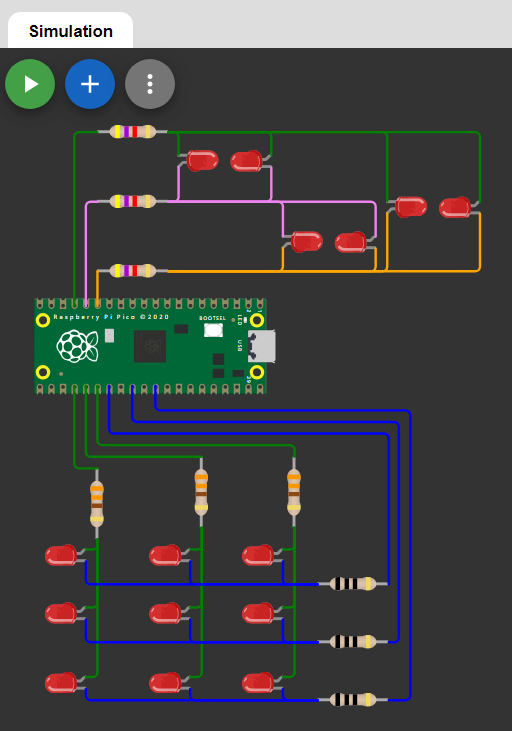
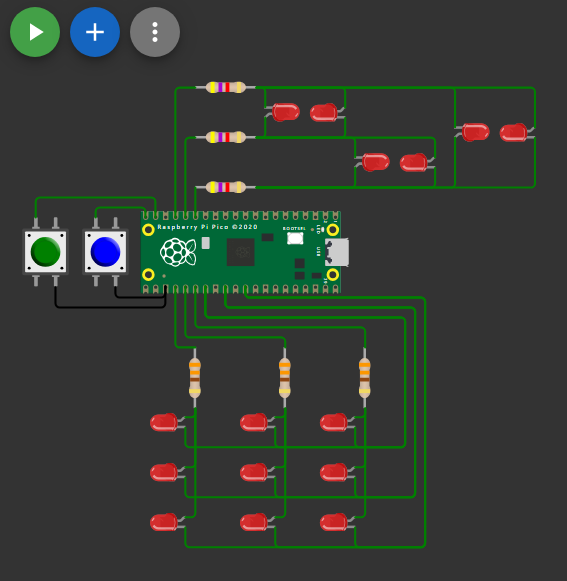
added buttons

diff --git a/led-multiplexing/main.c b/led-multiplexing/main.c
@@ -1,11 +1,15 @@
 /*
 Press the green play button to run the simulation --->
+Try pressing the buttons!
 
-Description:
+Features:
 Charlieplexing LED Circuit (top) 
   - N pins control N*(N-1) LEDs
 Multiplexing LED Circuit (bottom)
   - N+M pins control N*M LEDs
+Push Buttons using interrupts
+  - Left controls which circuit
+  - Right controls which LED pattern
 
 Author: Caite S.
 */
@@ -13,74 +17,124 @@ Author: Caite S.
 #include <stdio.h>
 #include "pico/stdlib.h"
 
-#define LED_A 18
-#define LED_B 19
-#define LED_C 20
-#define GND_A 21
-#define GND_B 22
-#define GND_C 26
-#define LED_D 13
-#define LED_E 12
-#define LED_F 11
-#define BTN_SWITCH 15
-#define BTN_NEXT 14
+#define DEBOUNCE_DELAY_MS 150
+#define BTN_CIRCUIT 14
+#define BTN_PATTERN 15
 #define LEN_multiplex 3
 #define LEN_charlieplex 3
 
+const int column_PINS[LEN_multiplex] = {18, 19, 20};
+const int row_PINS[LEN_multiplex] = {21, 22, 26};
+const int charlieplex_PINS[LEN_charlieplex] = {13, 12, 11};
+
+volatile bool isMultiplexActive = true;
+volatile int patternState = 1;
+volatile uint64_t circuit_btn_time_pressed = 0;
+volatile uint64_t pattern_btn_time_pressed = 0;
+
 void multiplex_put(int LED_num, bool on);
 void charlieplex_put(int LED_num, bool on);
-void multiplexAllOff();
-void charlieplexAllOff();
-void multiplex_loop();
-void charlieplex_loop();
+void handle_button_press(uint /*gpio*/, uint32_t /*event_mask*/);
+void switch_circuit();
+void next_pattern();
+void multiplex_blink_one();
+void multiplex_wave();
+void multiplex_all_on();
+void charlieplex_blink_one();
+void charlieplex_wave();
+void charlieplex_all_on();
+
 
 
 int main() {
   stdio_init_all();
-  gpio_init(LED_A);
-  gpio_init(LED_B);
-  gpio_init(LED_C);
-  gpio_init(GND_A);
-  gpio_init(GND_B);
-  gpio_init(GND_C);
-  gpio_init(LED_D);
-  gpio_init(LED_E);
-  gpio_init(LED_F);
-  gpio_init(BTN_SWITCH);
-  gpio_init(BTN_NEXT);
-  gpio_set_dir(LED_A, GPIO_OUT);
-  gpio_set_dir(LED_B, GPIO_OUT);
-  gpio_set_dir(LED_C, GPIO_OUT);
-  gpio_set_dir(GND_A, GPIO_OUT);
-  gpio_set_dir(GND_B, GPIO_OUT);
-  gpio_set_dir(GND_C, GPIO_OUT);
-  gpio_set_dir(BTN_SWITCH, GPIO_IN);
-  gpio_set_dir(BTN_NEXT, GPIO_IN);
+  // init pins in LED circuits
+  for (int i=0; i<LEN_multiplex; i++) {
+    gpio_init(column_PINS[i]);
+    gpio_set_dir(column_PINS[i], GPIO_OUT);
+    gpio_put(column_PINS[i], 0);
+  }
+  for (int i=0; i<LEN_multiplex; i++) {
+    gpio_init(row_PINS[i]);
+    gpio_set_dir(row_PINS[i], GPIO_OUT);
+    gpio_put(row_PINS[i], 1);
+  }
+  for (int i=0; i<LEN_charlieplex; i++) {
+    gpio_init(charlieplex_PINS[i]);
+    gpio_set_dir(charlieplex_PINS[i], GPIO_OUT);
+    gpio_put(charlieplex_PINS[i], 0);
+  }
 
-  multiplexAllOff();
-  charlieplexAllOff();
+  // push buttons
+  gpio_init(BTN_CIRCUIT);
+  gpio_init(BTN_PATTERN);
+  gpio_set_dir(BTN_CIRCUIT, GPIO_IN);
+  gpio_set_dir(BTN_PATTERN, GPIO_IN);
+  gpio_pull_up(BTN_CIRCUIT);
+  gpio_pull_up(BTN_PATTERN);
 
-  while(true) {
-     multiplex_loop();
-     charlieplex_loop();
+  // interrupt on button press
+  gpio_set_irq_enabled_with_callback(BTN_CIRCUIT, GPIO_IRQ_EDGE_FALL, true, &handle_button_press);
+  gpio_set_irq_enabled_with_callback(BTN_PATTERN, GPIO_IRQ_EDGE_FALL, true, &handle_button_press);
+  
+  void (*multiplex_patterns[3])() = {multiplex_blink_one, multiplex_wave, multiplex_all_on};
+  void (*charlieplex_patterns[3])() = {charlieplex_blink_one, charlieplex_wave, charlieplex_all_on};
+
+  while (true) {
+    if (isMultiplexActive) {
+      (*multiplex_patterns[patternState - 1])();
+    } else {
+      (*charlieplex_patterns[patternState - 1])();
+    }
   }
 }
 
 
 
+void handle_button_press(uint /*gpio*/, uint32_t /*event_mask*/) {
+  uint64_t current_time = time_us_64();
+
+  if (gpio_get(BTN_PATTERN) == 0) {
+    // debounce
+    if (current_time - pattern_btn_time_pressed > (DEBOUNCE_DELAY_MS * 1000)) {
+      pattern_btn_time_pressed = current_time;  
+      next_pattern();
+    }
+  }
+  if (gpio_get(BTN_CIRCUIT) == 0) {
+    // debounce
+    if (current_time - circuit_btn_time_pressed > (DEBOUNCE_DELAY_MS * 1000)) {
+      circuit_btn_time_pressed = current_time; 
+      switch_circuit();
+    }
+  }
+}
+
+void switch_circuit() {
+  isMultiplexActive = !isMultiplexActive;
+}
+
+void next_pattern() {
+  if (patternState >= 3) {
+    patternState = 1;
+  } else {
+    patternState++;
+  }
+}
+
 void multiplex_put(int LED_num, bool on) {
-  const int cols[] = {LED_A, LED_B, LED_C};
-  const int rows[] = {GND_A, GND_B, GND_C};
   int col = LED_num % LEN_multiplex;
   int row = LED_num / LEN_multiplex;
+  const int column_PINS[LEN_multiplex] = {18, 19, 20};
+  const int row_PINS[LEN_multiplex] = {21, 22, 26};
   
   if (on) {
-    gpio_put(cols[col], 1);
-    gpio_put(rows[row], 0);
+    gpio_put(column_PINS[col], 1);
+    gpio_put(row_PINS[row], 0);
   }
   else {
-    gpio_put(cols[col], 0);
-    gpio_put(rows[row], 1);
+    gpio_put(column_PINS[col], 0);
+    gpio_put(row_PINS[row], 1);
   }
   return;
 } 
@@ -95,122 +149,71 @@ void charlieplex_put(int LED_num, bool on) {
     {0, 2, 1}, 
     {1, 2, 0},
   };
-  int inputs[LEN_charlieplex] = {LED_D, LED_E, LED_F};
 
   if (on) {
     for (int i=0; i<LEN_charlieplex; i++) {
       if (arr[LED_num][i] == 2) {
-        gpio_set_dir(inputs[i], GPIO_IN);  // Z
+        gpio_set_dir(charlieplex_PINS[i], GPIO_IN);  // Z
       } 
       else {
-        gpio_put(inputs[i], arr[LED_num][i]);
+        gpio_put(charlieplex_PINS[i], arr[LED_num][i]);
       }
     }
   }
   else {
     for (int i=0; i<LEN_charlieplex; i++) {
       if (arr[LED_num][i] == 2) {
-        gpio_set_dir(inputs[i], GPIO_OUT);
-        gpio_put(inputs[i], 0);
+        gpio_set_dir(charlieplex_PINS[i], GPIO_OUT);
+        gpio_put(charlieplex_PINS[i], 0);
       } 
       else {
-        gpio_put(inputs[i], 0);
+        gpio_put(charlieplex_PINS[i], 0);
       }
     }
   }
   return;
 } 
 
-void multiplexAllOff() {
-  gpio_put(LED_A, 0);
-  gpio_put(LED_B, 0);
-  gpio_put(LED_C, 0);
-  gpio_put(GND_A, 1);
-  gpio_put(GND_B, 1);
-  gpio_put(GND_C, 1);
-}
-
-void charlieplexAllOff() {
-  gpio_set_dir(LED_D, GPIO_OUT);
-  gpio_set_dir(LED_E, GPIO_OUT);
-  gpio_set_dir(LED_F, GPIO_OUT);
-  gpio_put(LED_D, 0);
-  gpio_put(LED_E, 0);
-  gpio_put(LED_F, 0);
-}
-
 void multiplex_wave() {
-  for (int count=0; count<3; count++) {
-    for (int i=0; i<LEN_multiplex*LEN_multiplex; i++) {
-      multiplex_put(i, 1);
-      sleep_ms(100);
-      multiplex_put(i, 0);
-    }
-  }
-  multiplexAllOff();
-  sleep_ms(200);  
+  for (int i=0; i<LEN_multiplex*LEN_multiplex; i++) {
+    multiplex_put(i, 1);
+    sleep_ms(100);
+    multiplex_put(i, 0);
+  } 
 } 
 
 void multiplex_all_on() {
-  for (int count=0; count<30000; count++) {
-    for (int i=0; i<LEN_multiplex*LEN_multiplex; i++) {
-      multiplex_put(i, 1);
-      multiplex_put(i, 0);
-    }
-  }
-  multiplexAllOff();
-  sleep_ms(200);  
+  for (int i=0; i<LEN_multiplex*LEN_multiplex; i++) {
+    multiplex_put(i, 1);
+    multiplex_put(i, 0);
+  }  
 }
 
 void multiplex_blink_one() {
-  for (int count=0; count<3; count++) {
-    multiplex_put(4, 1);
-    sleep_ms(300);
-    multiplex_put(4, 0);
-    sleep_ms(300);
-  }  
-}
-
-void multiplex_loop() {
-  multiplex_wave();
-  multiplex_all_on();
-  multiplex_blink_one();
+  multiplex_put(4, 1);
+  sleep_ms(200);
+  multiplex_put(4, 0);
+  sleep_ms(200); 
 }
 
 void charlieplex_wave() {
-    for (int count=0; count<3; count++) {
-      for (int i=0; i<LEN_charlieplex*(LEN_charlieplex-1); i++) {
-        charlieplex_put(i, 1);
-        sleep_ms(150);
-        charlieplex_put(i, 0);
-      }
-    }
-    charlieplexAllOff();
-    sleep_ms(200);
-}
-
-void charlieplex_all_on() {
-  for (int count=0; count<30000; count++) {
-    for (int i=0; i<LEN_charlieplex*(LEN_charlieplex-1); i++) {
-      charlieplex_put(i, 1);
-      charlieplex_put(i, 0);
-    }
-  }  
-  charlieplexAllOff();
-  sleep_ms(200);
-}
-
-void charlieplex_blink_one() {
-  for (int count=0; count<3; count++) {
-    charlieplex_put(2, 1);
-    sleep_ms(300);
-    charlieplex_put(2, 0);
-    sleep_ms(300);
+  for (int i=0; i<LEN_charlieplex*(LEN_charlieplex-1); i++) {
+    charlieplex_put(i, 1);
+    sleep_ms(100);
+    charlieplex_put(i, 0);
   }
 }
 
-void charlieplex_loop() {
-  charlieplex_wave();
-  charlieplex_all_on();
-  charlieplex_blink_one();
+void charlieplex_all_on() {
+  for (int i=0; i<LEN_charlieplex*(LEN_charlieplex-1); i++) {
+    charlieplex_put(i, 1);
+    charlieplex_put(i, 0);
+  }
+}
+
+void charlieplex_blink_one() {
+  charlieplex_put(2, 1);
+  sleep_ms(200);
+  charlieplex_put(2, 0);
+  sleep_ms(200);
 }
